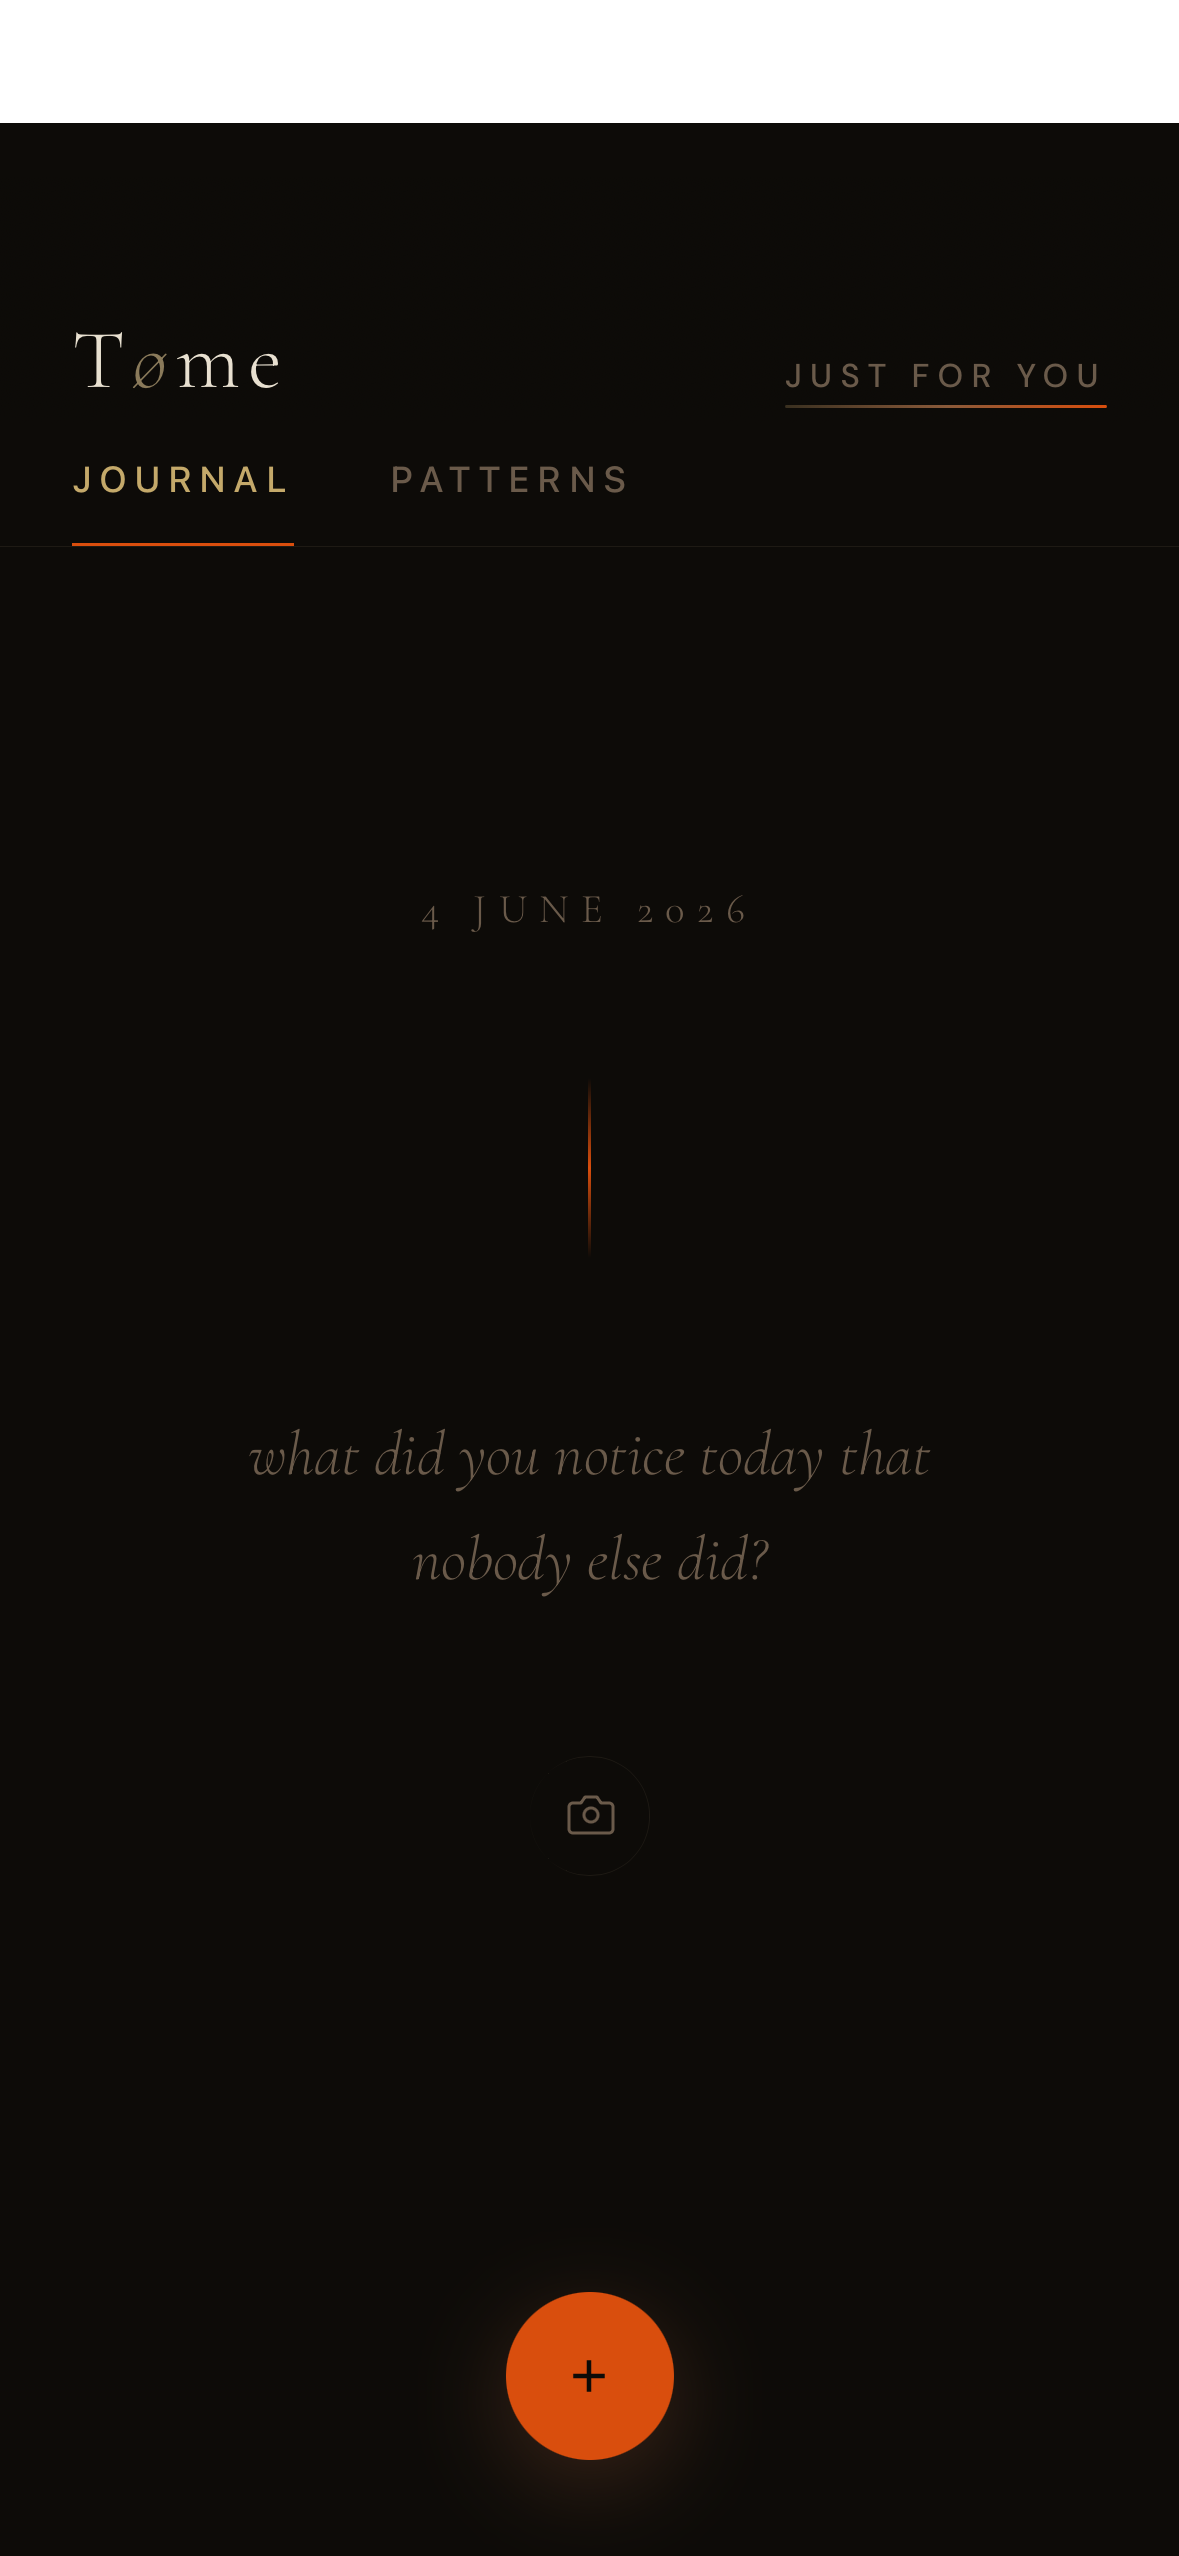
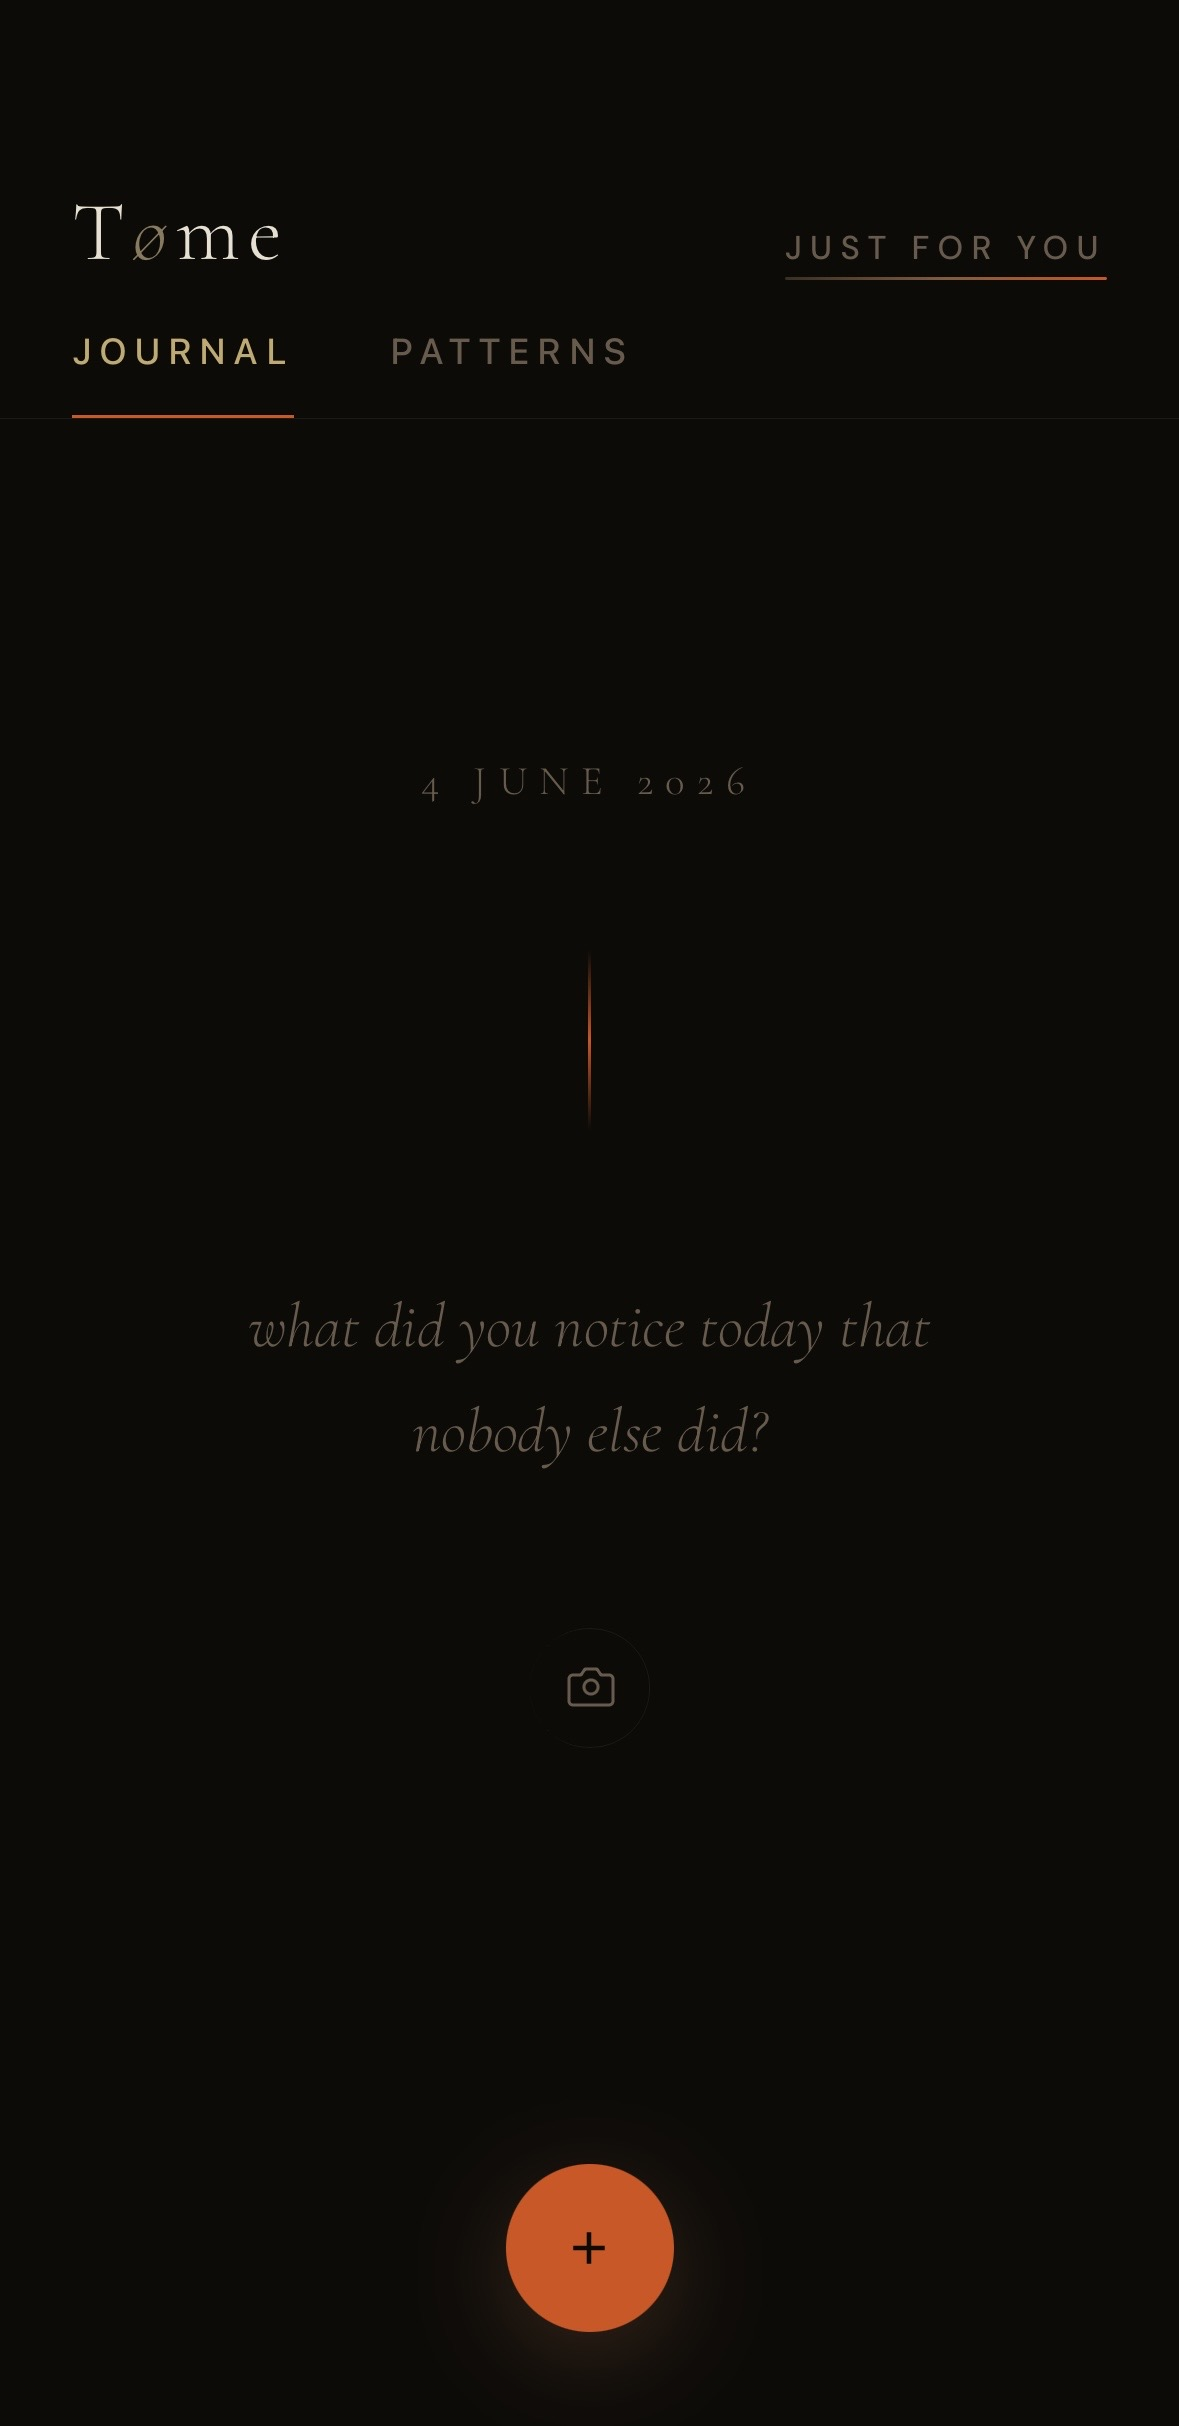
Connect email capture to Formspree

diff --git a/index.html b/index.html
@@ -528,12 +528,22 @@
       btn.innerHTML = '<span>👍</span><span>Thank you for letting us know</span>';
     }
 
-    function handleEmail() {
+    async function handleEmail() {
       const input = document.getElementById('email-input');
-      if (input.value && input.value.includes('@')) {
+      const email = input.value;
+      if (!email || !email.includes('@')) return;
+      
+      try {
+        await fetch('https://formspree.io/f/mnjynapr', {
+          method: 'POST',
+          headers: { 'Content-Type': 'application/json' },
+          body: JSON.stringify({ email: email })
+        });
         input.value = '';
         input.placeholder = 'saved.';
         document.getElementById('thankyou').style.display = 'block';
+      } catch(e) {
+        console.error(e);
       }
     }
   </script>
